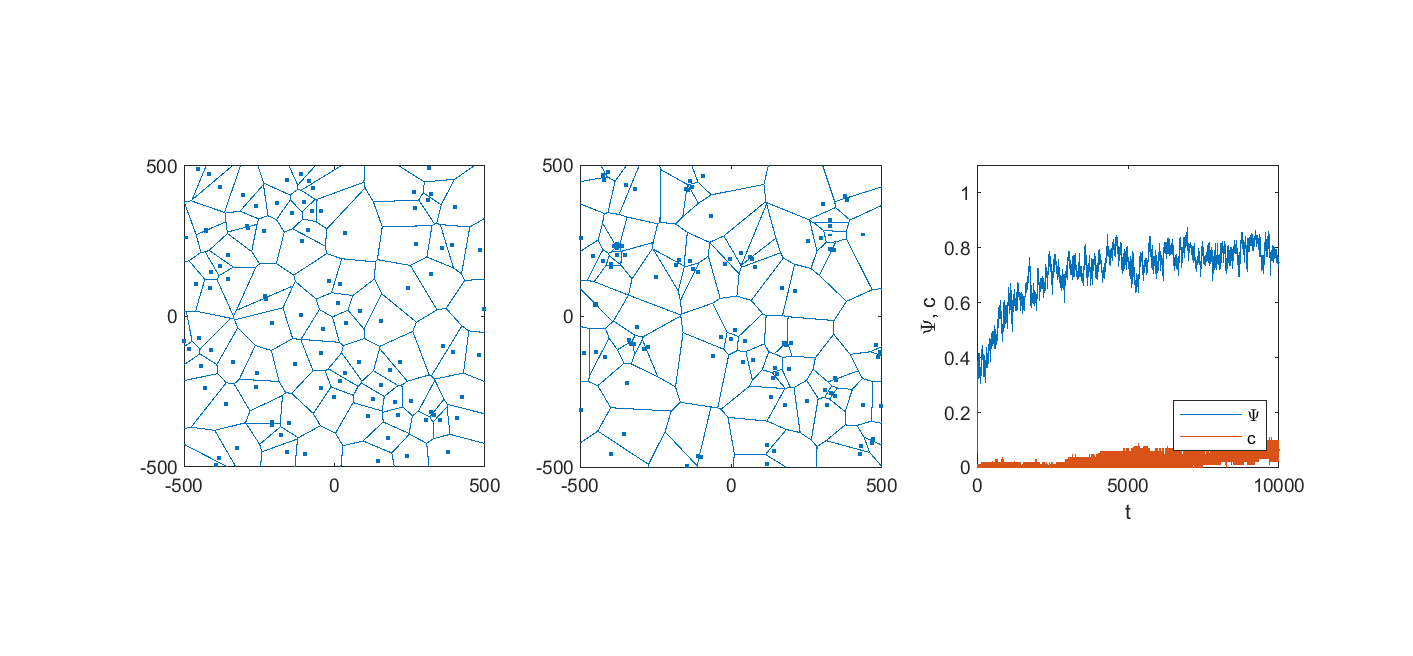
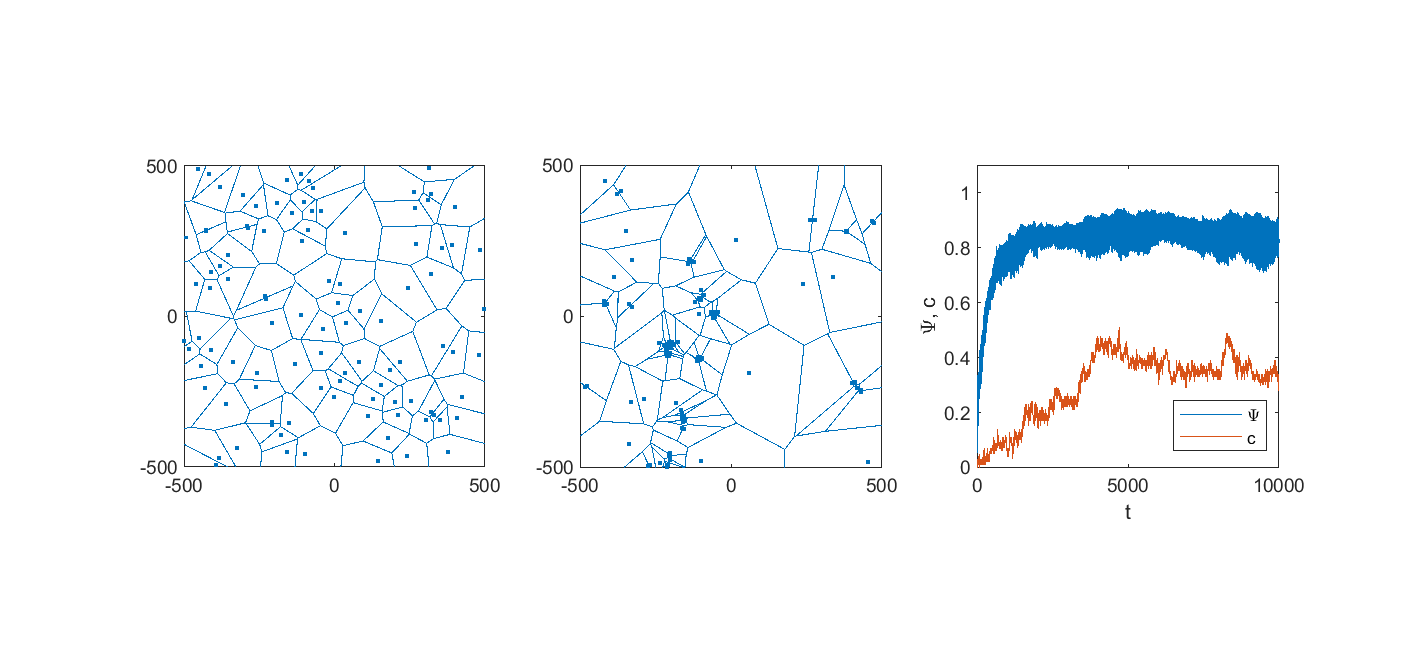
More pictures and functions!

diff --git a/Exercise 8/model.m b/Exercise 8/model.m
@@ -2,15 +2,17 @@ clc;
 clear;
 
 % Constants
-N = 100;
-L = 1000;
+N = 100; % Particles
+L = 100; % Bounding
 rho = N/L^2; % density rho = N/L^2
-eta = 0.4; % Noise
-Rf = 20; % Interaction radius radius
-dt = 1;
-v = 3;
+eta = 0.01; % Noise
+Rf = 1; % Interaction radius radius
+dt = 1; % Delta time
+v = 1; % Speed
 S = 10^4; % Number of interations
-h = 1;
+h = 1; % Delay
+k = -1; % Nearest Neighbors (Including itself)
+fov = deg2rad(180); % Field of vision for each particle
 
 g_align = zeros(S, 1);
 g_clust = zeros(S, 1);
@@ -20,8 +22,7 @@ inital_particles = initilize_particles(N, L, v);
 %% Run
 g_a_hist = [];
 g_c_hist = [];
-for h = 25
-    h
+for fov = [pi pi/2 pi/4]
 history = zeros(N, 4, S);
 particles = inital_particles;
 j = 1;
@@ -29,7 +30,7 @@ for i = 1:S
     history(:,:,i) = particles;
     g_align(i) = alignment_coefficient(particles, v);
     g_clust(i) = global_clustering_coeff(particles, Rf, L);
-    particles = update_particles(particles, L, Rf, eta, dt, history, h, i);
+    particles = update_particles(particles, L, Rf, eta, dt, history, h, i, k, fov);
     if any(i == [10 100 500 1000])
         subplot(1, 4, j)
         voronoi(particles(:,1), particles(:,2))
@@ -49,7 +50,7 @@ for i = 1:S
         fprintf("%d\n",i);
     end
 end
-saveas(gcf, strcat('./Images/8/h_',int2str(h),'_steps.png'))
+%saveas(gcf, strcat('./Images/11/fov_',int2str(fov),'_steps.png'))
 g_a_hist = [g_a_hist g_align];
 g_c_hist = [g_c_hist g_clust];
 
@@ -73,11 +74,11 @@ legend('\Psi', 'c', 'Location', 'southeast')
 xlabel('t')
 ylabel('\Psi, c')
 pbaspect([1 1 1])
-saveas(gcf, strcat('./Images/8/h_',int2str(h),'.png'))
+%saveas(gcf, strcat('./Images/11/fov_',int2str(fov),'.png'))
 end
 %%
 clf
 subplot(1,2,1)
-plot(1:S, [g_a_hist(:,1) g_a_hist(:,2) g_a_hist(:,26)])
+plot(1:S, g_a_hist)
 subplot(1,2,2)
-plot(1:S, [g_c_hist(:,1) g_c_hist(:,2) g_c_hist(:,26)])
+plot(1:S, g_c_hist)

diff --git a/Exercise 8/get_particles_in_range.m b/Exercise 8/get_particles_in_range.m
@@ -1,9 +1,26 @@
-function in_range = get_particles_in_range(particles, position, L, Rf)
+function in_range = get_particles_in_range(particles, position, L, Rf, k, fov)
     % calc differance on all particles except current one
     differance = abs(particles(:,1:2) - position);
     % Wrap around distance when over L/2
-    differance(differance > L/2) = L - differance(differance > L/2); 
-
-    in_range = sqrt(sum(differance.^2, 2)) < Rf;
+    differance(differance > L/2) = L - differance(differance > L/2);
+    distance = sqrt(sum(differance.^2, 2));
+    if k > 0
+        [v, idx] = sort(distance);
+        in_range = idx(v<Rf);
+        if k < length(in_range)
+            in_range = in_range(1:k);
+        end
+    else
+        index = (1:size(particles, 1))';
+        in_range = index(distance < Rf);
+    end
+    
+    if length(nonzeros(in_range)) > 1
+        % Vectors from position to all other positions in range
+        v = particles(in_range(1:end), 1:2)-position;
+        d_prod = position*v';
+        angles = acos(d_prod./(vecnorm(v,2,2)'*norm(position)));
+        angles(isnan(angles))=0; % Set positions own angle to 0
+        in_range = in_range(angles < fov); % All points in the fov
+    end
 end
-

diff --git a/Exercise 8/update_particles.m b/Exercise 8/update_particles.m
@@ -1,14 +1,14 @@
-function particles = update_particles(particles, L, Rf, eta, dt, history, h, n)
+function particles = update_particles(particles, L, Rf, eta, dt, history, h, n, k, fov)
     s = 10;
-    directions = update_directions(particles, L, Rf, eta, dt);
+    directions = update_directions(particles, L, Rf, eta, dt, k, fov);
     positions = update_positions(particles, L, dt);
     
     if h > 0 && n > h
         particles(:, 1:2) = positions;
-        particles(:, 3) = update_directions(history(:,:,n-h), L, Rf, eta, dt);
+        particles(:, 3) = update_directions(history(:,:,n-h), L, Rf, eta, dt, k, fov);
     elseif h < 0 && n > s
         N = size(particles, 1);
-        future_directions = zeros(N, 1);
+        future_directions = directions;
         for i = 1:N
             p = polyfit(1:s, history(i, 3, n-s:n-1), 1);
             future_directions(i) = polyval(p, s+abs(h));

diff --git a/Exercise 8/update_directions.m b/Exercise 8/update_directions.m
@@ -1,11 +1,11 @@
-function directions = update_directions(particles, L, Rf, eta, dt)
+function directions = update_directions(particles, L, Rf, eta, dt, k, fov)
     N = size(particles, 1);
     directions = zeros(N, 1);
     for j = 1:N
-        in_range = get_particles_in_range(particles, particles(j,1:2), L, Rf);
+        in_range = get_particles_in_range(particles, particles(j,1:2), L, Rf, k, fov);
         % Circular mean https://en.wikipedia.org/wiki/Circular_mean
         alpha = particles(in_range, 3);
-        if sum(in_range) > 1
+        if length(in_range) > 1
             avg = atan(mean(sin(alpha))/mean(cos(alpha)));
         else
             avg = alpha;
